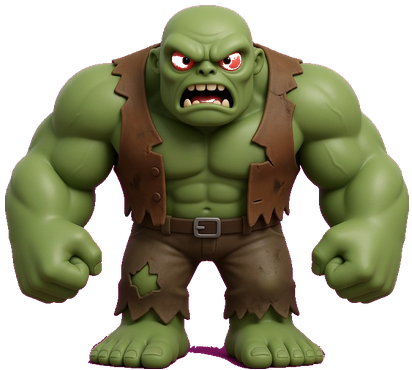
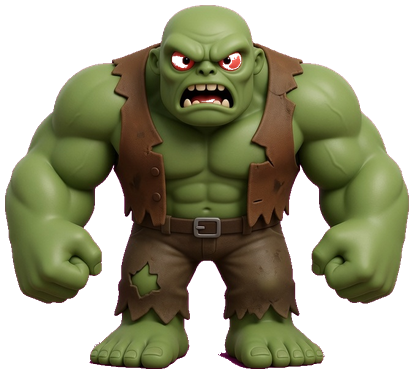
fix: strip the magenta fringe under doom sprite feet
The plate key now despills leftover magenta after resize so soldiers and zombies sit cleanly on the road.

diff --git a/tools/pack_ad_sprites.py b/tools/pack_ad_sprites.py
@@ -105,11 +105,25 @@ def foot_x(im: Image.Image) -> float:
     return total / weight
 
 
+def despill(im: Image.Image) -> Image.Image:
+    px = im.load()
+    w, h = im.size
+    for y in range(h):
+        for x in range(w):
+            r, g, b, a = px[x, y]
+            if a < 12:
+                px[x, y] = (0, 0, 0, 0)
+                continue
+            if r > 90 and b > 70 and g < 150 and (r + b) > (g * 2 + 70) and b > g + 8 and r > g:
+                px[x, y] = (0, 0, 0, 0)
+    return im
+
+
 def normalize(im: Image.Image, target_h: int) -> Image.Image:
-    im = trim(key_magenta(im))
+    im = despill(trim(key_magenta(im)))
     scale = target_h / max(1, im.height)
     nw = max(1, int(round(im.width * scale)))
-    return im.resize((nw, target_h), Image.Resampling.LANCZOS)
+    return despill(im.resize((nw, target_h), Image.Resampling.LANCZOS))
 
 
 def place_feet(frames: list[Image.Image], cell_h: int) -> Image.Image:
